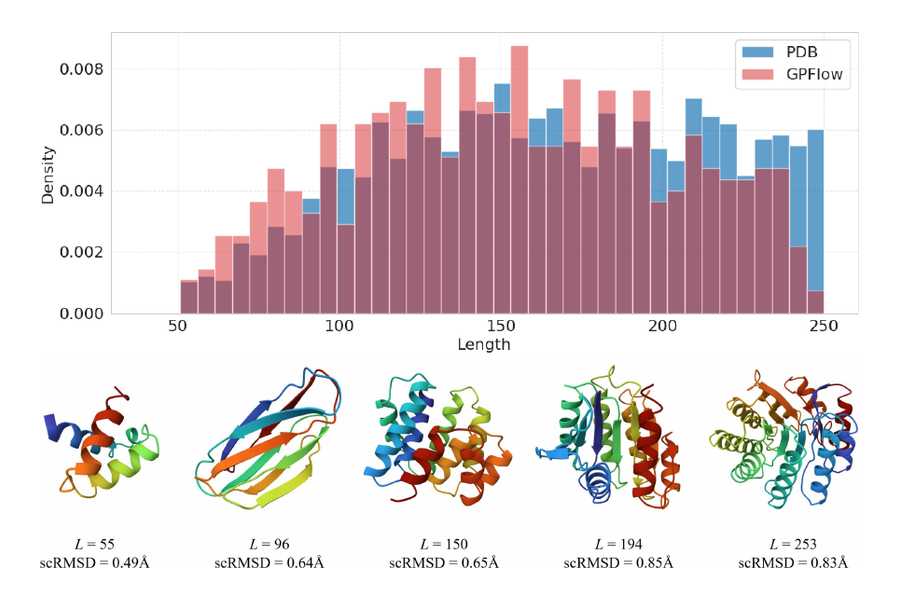
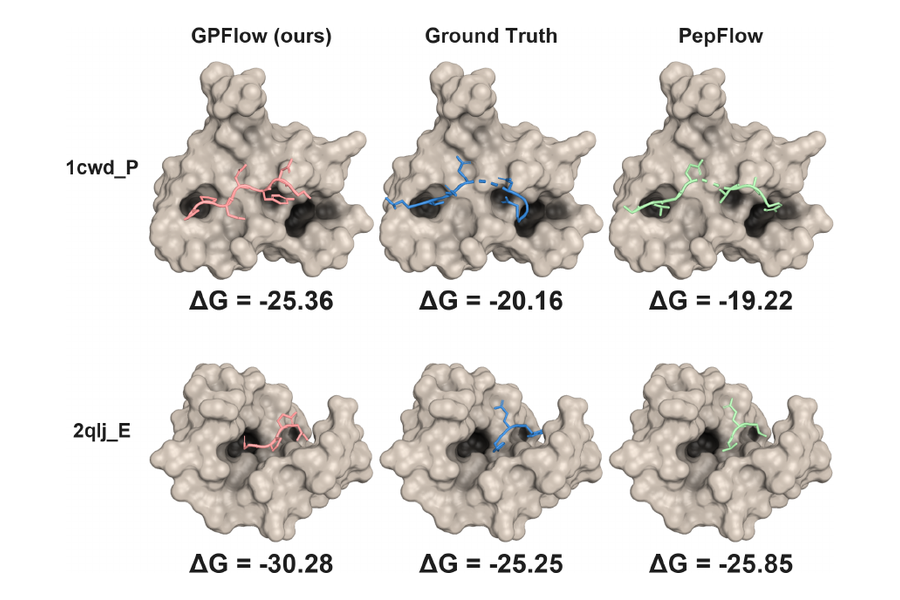
update thumbnails

diff --git a/index.html b/index.html
@@ -168,9 +168,9 @@
                 <td class="pub-thumb" style="padding:12px 5px 12px 20px;width:17%;vertical-align:middle">
                   <div class="one">
                     <div class="two">
-                      <img src="images/gpflow/gpflow-1.png" width="168" alt="GPFlow length distributions and generated protein structures">
+                      <img src="images/gpflow/gpflow-1.png?v=3" width="168" alt="GPFlow-generated peptide binders compared to ground truth and PepFlow">
                     </div>
-                    <img src="images/gpflow/gpflow.png?v=2" width="168" alt="GPFlow-generated peptide binders compared to ground truth and PepFlow">
+                    <img src="images/gpflow/gpflow.png?v=3" width="168" alt="GPFlow variable-length protein design overview">
                   </div>
                 </td>
                 <td class="pub-info" style="padding:16px 20px;width:83%;vertical-align:middle">
